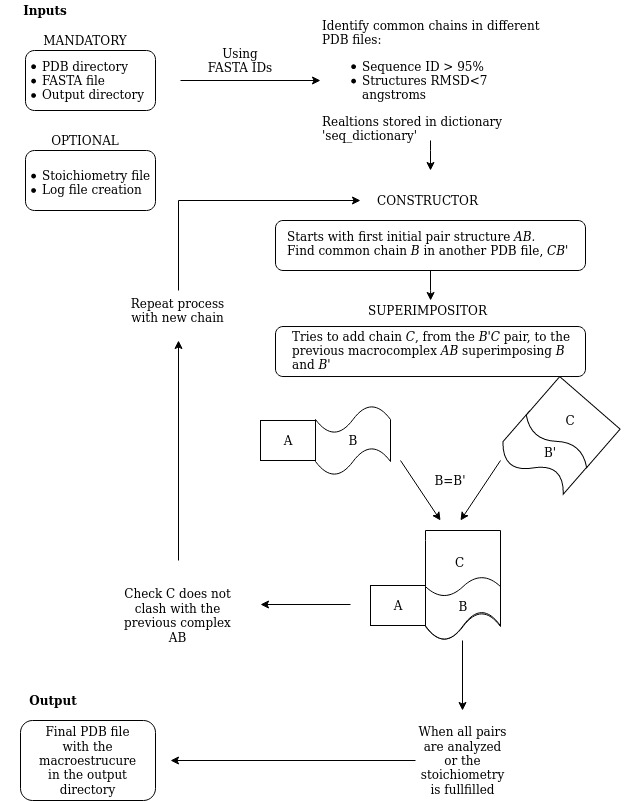
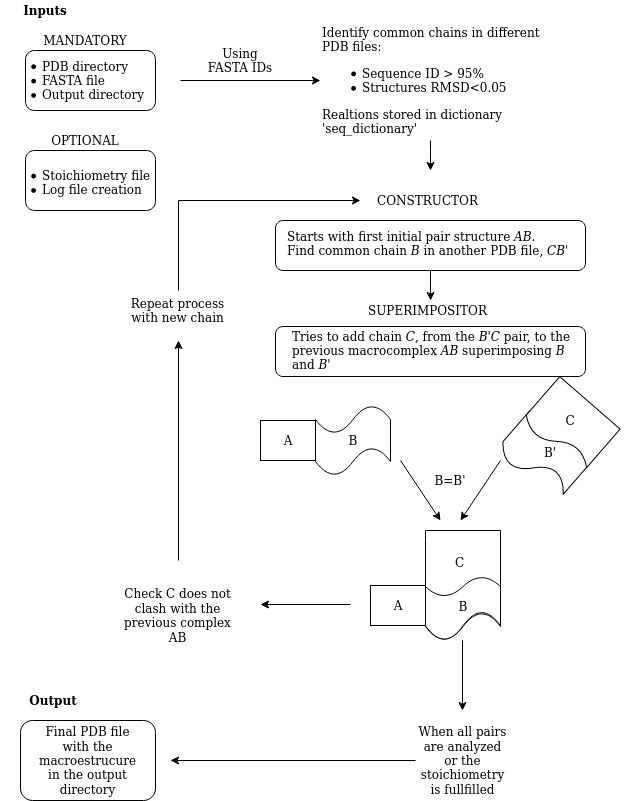
README 1gzx example

Changed region(s): [[0.4984, 0.0312, 0.8411, 0.1873]]

diff --git a/README.md b/README.md
@@ -35,7 +35,7 @@ Identifying the structure of interacting proteins, complexes, is not an easy tas
 
 ComplexBuilder tries to generate macrocomplex structures. To do so, the superimposing technique is used: it receives a list of PDB files, each of these files contains the structure of an interacting pair and, by superimposing the common elements of different pairs, it builds the final structure. Although there are other methods to generate macrocomplexes, the superimposition is fast and effective. Furthermore, not only protein-protein interacting pairs can be analyzed, but also proteins with DNA, to end up generating a macrocomplex structure of proteins and DNA chains. 
 
-The core of ComplexBuilder is the `constructor` function, which is the responsible of the building process. The PDBs of the interacting pairs are analyzed and classified using the information of the FASTA file. The common chains in different PDB files are identified: they will have more than 95% of identity in their sequences and an RMSD of less than 7<!-- Confirm this --> angstroms after superimposing their structures. After this classification, `constructor` begins to append elements to the macrocomplex: it starts with a pair, then it looks for another pair with a common element with the starting one and, if after superimposing the common element, the structure has not clashed, it appends the new element. Like this, the macrocomplex have now three elements and, the next step will repeat the process looking for another pair, superimposing the common element and checking the possible clashes. The program is described [here](#performance).
+The core of ComplexBuilder is the `constructor` function, which is the responsible of the building process. The PDBs of the interacting pairs are analyzed and classified using the information of the FASTA file. The common chains in different PDB files are identified: they will have more than 95% of identity in their sequences and an RMSD of less than 0.05 after superimposing their structures. After this classification, `constructor` begins to append elements to the macrocomplex: it starts with a pair, then it looks for another pair with a common element with the starting one and, if after superimposing the common element, the structure has not clashed, it appends the new element. Like this, the macrocomplex have now three elements and, the next step will repeat the process looking for another pair, superimposing the common element and checking the possible clashes. The program is described [here](#performance).
 
 In addition, as a lot of complexes follow a determined stoichiometry, ComplexBuilder can also make the construction following it. If a stoichiometry is defined, the final structure will contain the exact number of elements indicated by it.
 
@@ -101,8 +101,8 @@ To execute ComplexBuilder three arguments are required:
 Example for a stoichiometry 2A2B for '1GZX':
 
 ```shell
-1GZXA:2
-1GZXB:2
+1GZXa:2
+1GZXb:2
 ```
 
 ### Graphical interface
@@ -130,6 +130,43 @@ Furthermore, additional options can be set:
 Finally, in the top menu you can consult the ComplexBuilder 'Help' as well.
 
 ## Examples
+
+As said before, to generate any macrocomplex estructure it is required the FASTA file with the IDs and sequences of all the elements composing the estructure. In addition, it is also required a direcory with paired estructures, in PDB format, of the different elements. 
+
+### 1GZX
+To perform the construction of T state haemoglobin, which structure follows an stoichiometry of 2A2B, first we need to create a a .txt file where the stoichiometry is explicited, for example,  `1gzx_st.txt`:
+
+```shell
+1GZXa:2
+1GZXb:2
+```
+- Command line execution:
+
+```shell
+python3 ComplexBuilder.py -fa 1gzx.fa -pdb 1gzxDir -o 1GZX_result -st 1gzx_st.txt -v
+```
+- `-fa`, mandatory: followed by the FASTA file `1gzx.fa`.
+
+> This file must contain two IDs followed by the corresponding sequence, e.g. `1GZXa`, `1GZXb`. Note that, the IDs in `1gzx_st.txt` have to be concordant with them.
+
+- `-pdb`, mandatory: followed by the directory with paired estructures in PDB `1gzxDir`.
+
+> In this case inside this folder we should have at least three PDB files, e.g. `1gzx_AB.pdb`, `1gzx_AC.pdb`, `1gzx_AD.pdb`. If there are redundant pairs they won't be considered. 
+
+- `-o`, mandatory: followed by the name given to the output directory where the results will be stored, `1GZX_result`.
+
+> If it already exists a directory with the same name in the working folder it will be replaced.
+
+- `-st`: followed by the stoychiometry information of the complex 2A2B that is in the file `1gzx_st.txt`.
+
+- `-v`: turn ON the the verbose option. It is always recommended to create a logfile where the process information will be displayed. To deactivate the creation of the logfile, don't add the `-v` flag. 
+
+
+| **Complex Builder** | **Reference structure** | **Superimposition** |
+| :---: |:---:| :---:|
+|<img src="/assets/1gzxExample/1gzxCB.jpg" title="1gzxCB" alt="1gzxCB" >|<img src="/assets/1gzxExample/1gzxREF.jpg" title="1gzxREF" alt="1gzxREF" >|<img src="/assets/1gzxExample/1gzxCB_REF.jpg" title="1gzxCB_REF" alt="1gzxCB_REF" >
+
+We can observe that the resulting estructure from Complex Builder fits the reference downloaded from PDB quite well. The RMSD of the second chains of both model and reference, computed with ICM after supeimposing the first chains, is zero. 
 
 ## Performance
 
